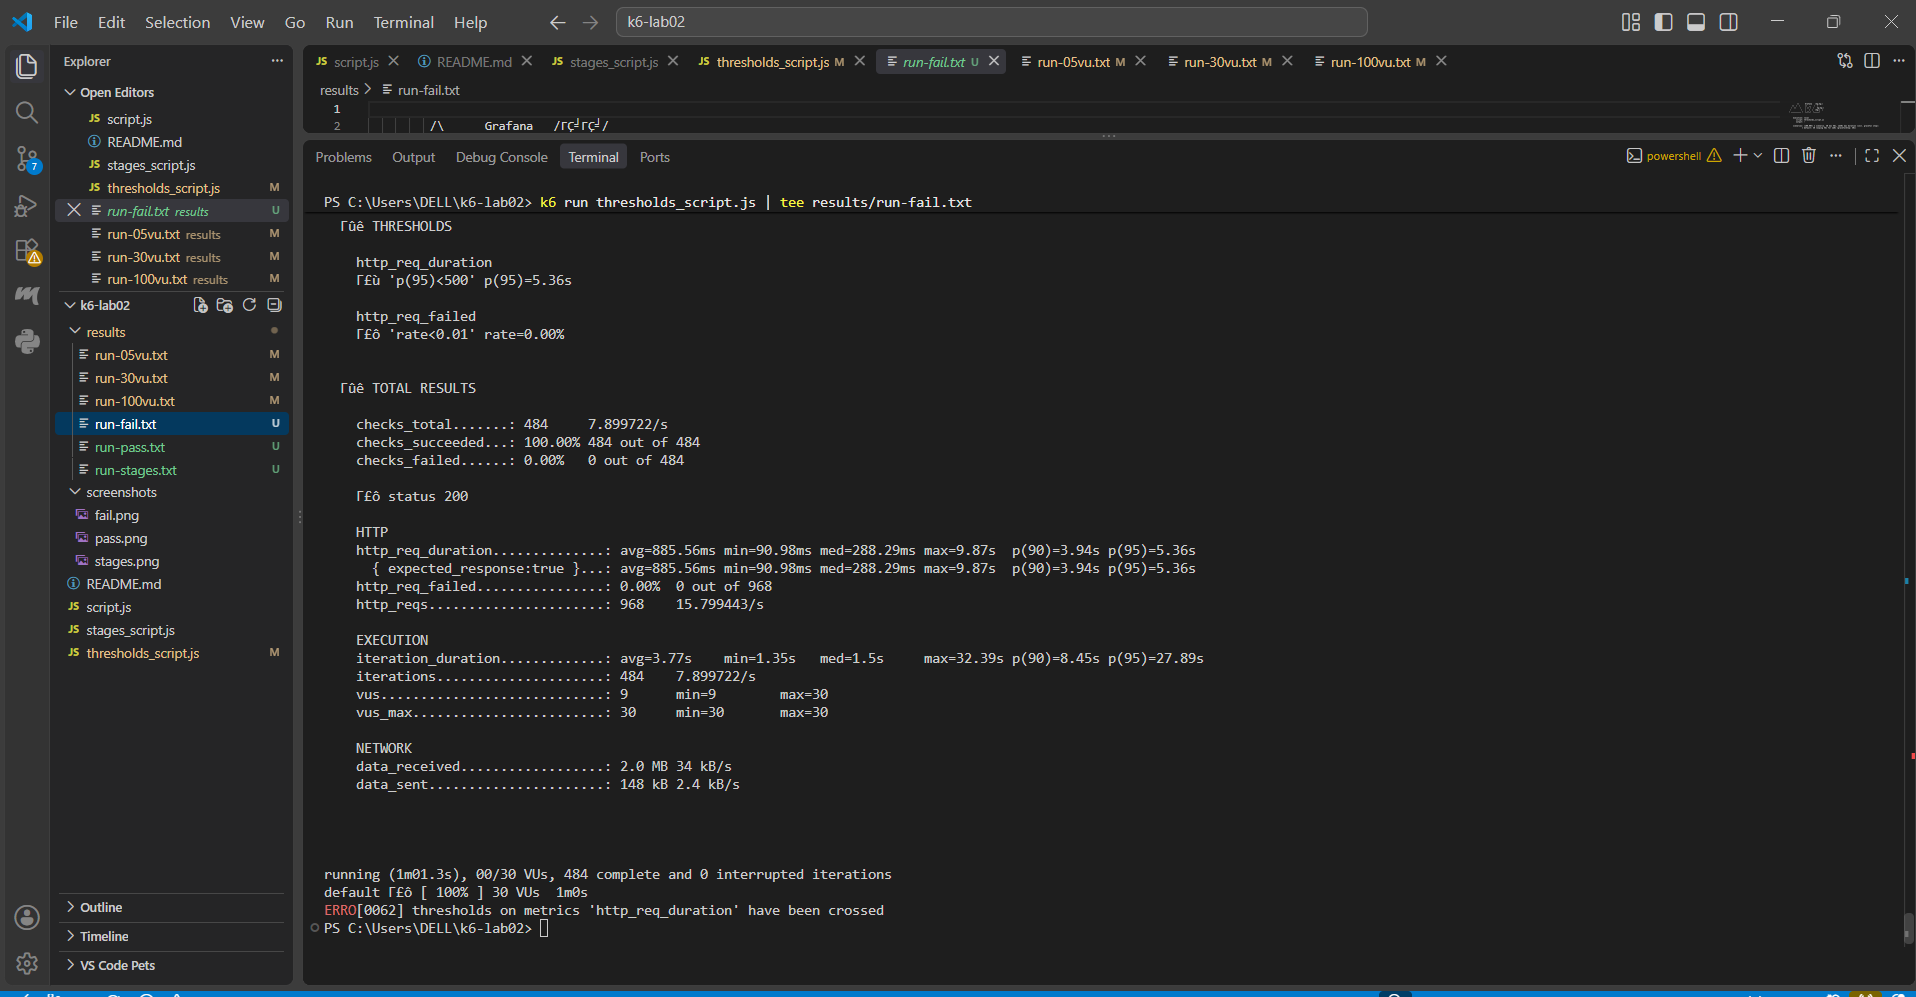
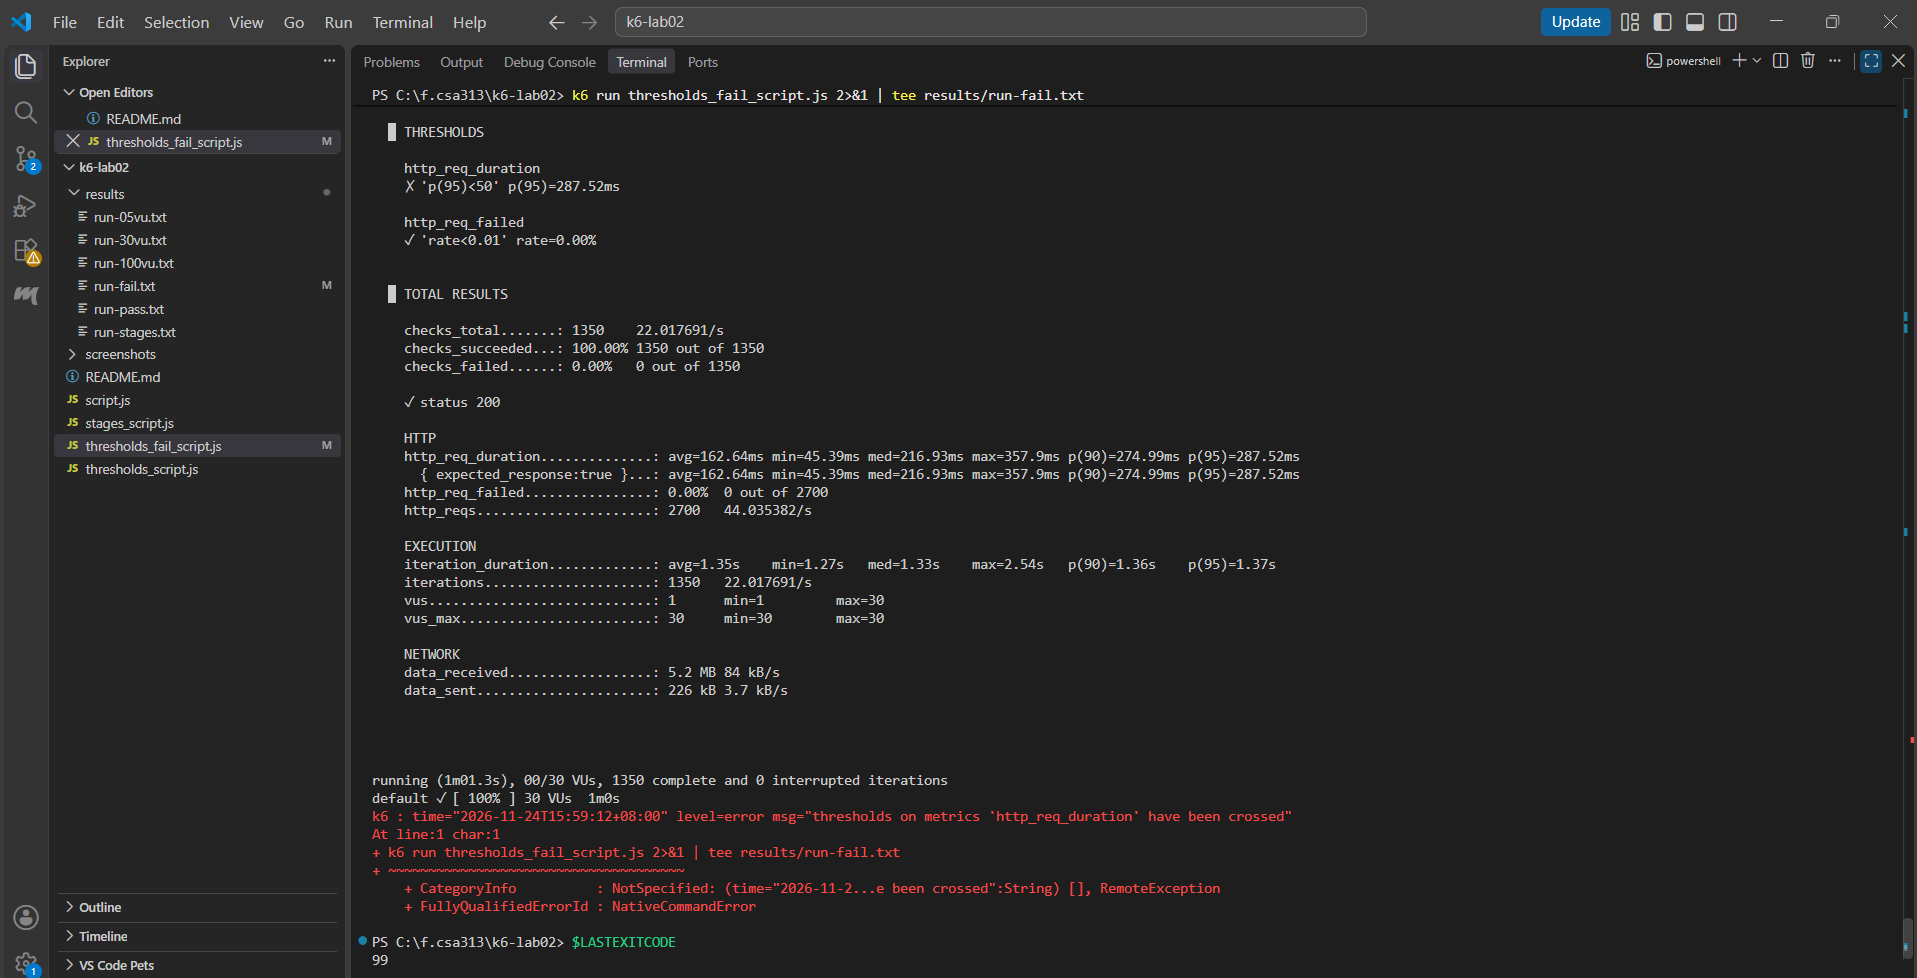
fix: rerun FAIL test with p(95)<50, exit code 99, sync screenshot and README

diff --git a/thresholds_fail_script.js b/thresholds_fail_script.js
@@ -1,11 +1,13 @@
 import http from 'k6/http';
 import { sleep, check } from 'k6';
 
+// FAIL демонстраци: results/run-fail.txt энэ скриптээр гарсан.
+// thresholds_script.js-тэй ялгаа нь зөвхөн p(95) босго (408 -> 50).
 export const options = {
     vus: 30,
     duration: '1m',
     thresholds: {
-        http_req_duration: ['p(95)<500'],
+        http_req_duration: ['p(95)<50'],
         http_req_failed: ['rate<0.01'],
     },
 };

diff --git a/README.md b/README.md
@@ -45,11 +45,11 @@ Error Rate: 0.31% (8 out of 2572) (✓ 'rate<0.01')
 Анхаарах зүйл: энэ run-д 8 хүсэлт амжилтгүй болсон тул `status 200` check 99.37% (1278/1286) байсан ба терминалд `✗ status 200` гэж харагдана. Гэвч http_req_failed = 0.31% нь SLO-ийн 1%-ийн хязгаараас доогуур тул threshold-ууд хангагдаж, тест PASS болсон.
 
 FAIL демонстраци (results/run-fail.txt, thresholds_fail_script.js)
-Босгыг p(95)<500ms болгож, бусад тохиргоог (30 VU, 1м) хэвээр үлдээсэн. Бодит p95 = 5.36s (p90 = 3.94s, max = 9.87s) тул `p(95)<500` босго зөрчигдөж (✗), `rate<0.01` биелсэн (✓, 0.00%). Энэ FAIL нь босгыг санаатайгаар хэт чанга болгосноос бус, тухайн ажиллуулалтад test.k6.io-ийн хариу огцом удаашрсанаас үүссэн (steady 30 VU-ийн PASS run-д p95 = 293.52ms байсан). Энэ нь гадаад серверийн хэлбэлзэл quality gate-д шууд нөлөөлдгийг харуулна.
+Босгыг санаатайгаар p(95)<50ms болгож (baseline p95 = 271.92ms-ээс ч доош), бусад тохиргоог (30 VU, 1м) хэвээр үлдээсэн. Бодит p95 = 287.52ms (p90 = 274.99ms, max = 357.9ms) тул `p(95)<50` босго зөрчигдөж (✗), харин `rate<0.01` биелсэн (✓, 0.00%, 2700 хүсэлт). Нэг threshold зөрчигдөхөд бусад нь хангагдсан байсан ч тест нийтдээ FAIL болдог.
 
-k6 нь threshold зөрчигдөхөд терминалд `ERRO[0062] thresholds on metrics 'http_req_duration' have been crossed` гэж хэвлэж, процессыг exit code 99-өөр дуусгадаг (CI pipeline-ийн build-ийг автоматаар зогсоодог механизм). ERRO мөр stderr-т гардаг тул PowerShell-ийн `| tee` файлд хуулдаггүй; терминалын гаралтыг screenshots/fail.png-д харуулсан.
+Threshold зөрчигдөхөд k6 терминалд `level=error msg="thresholds on metrics 'http_req_duration' have been crossed"` гэж хэвлэж, процессыг exit code 99-өөр дуусгасан (`$LASTEXITCODE` = 99, screenshots/fail.png-д харуулсан). CI pipeline яг энэ exit code-оор build-ийг автоматаар зогсоодог.
 
-Дахин ажиллуулах: `k6 run thresholds_fail_script.js 2>&1 | tee results/run-fail.txt`
+Дахин ажиллуулах: `k6 run thresholds_fail_script.js 2>&1 | tee results/run-fail.txt; echo $LASTEXITCODE`
 
 ## 5. Дэлгэцийн зургууд
 
@@ -72,4 +72,4 @@ k6 нь threshold зөрчигдөхөд терминалд `ERRO[0062] threshol
 6. Steady ба ramping ачаалал ижил дээд VU дээр ч эрс өөр үр дүн өгсөн нь VU-ийн тоо ганцаараа ачааллыг тодорхойлдоггүй, ачаалал өсөх хурд мөн чухал гэдгийг харуулсан; шалтгааныг (гадаад сервер, Windows socket хязгаар, connection storm) би хэмжилтээр баталгаажуулаагүй, зөвхөн таамаглал.
 7. SLO-оо 5 VU baseline p95 (271.92ms) × 1.5 ≈ 408ms гэж тодорхойлсон, учир нь baseline-аас хангалттай зайтай боловч хэрэглэгчийн мэдрэгдэхүйц удаашралыг мөрдөх хэмжээнд байна.
 8. Энэ SLO-г 30 VU дээр шалгахад p95 = 293.52ms, error rate = 0.31% (2572 хүсэлтээс 8 нь амжилтгүй) гарч босго хоёулаа хангагдсан (PASS); харин өмнөх тусдаа 30 VU run-д error rate 0.00% байсан тул гадаад серверийн хариу ажиллуулалт бүрт өөр байдгийг харуулна.
-9. Харин p(95)<500 босготой FAIL run-д p95 = 5.36s гарч босго зөрчигдсөн нь гадаад серверийн хэлбэлзэл ч quality gate-ийг унагаж болохыг, иймээс CI-д найдвартай шалгалт хийхэд локал сервер (Алхам 5) илүү тохиромжтойг харуулж байна.
+9. Тусад нь авсан p(95)<50 босготой FAIL run-д p95 = 287.52ms гарч босго зөрчигдөн k6 exit code 99-өөр дууссан бол error rate босго (0.00%) хангагдсан нь нэг threshold зөрчигдсөн ч тест нийтдээ FAIL болдог, CI pipeline-д quality gate яг ийм зарчмаар build-ийг зогсоодгийг батлав.
